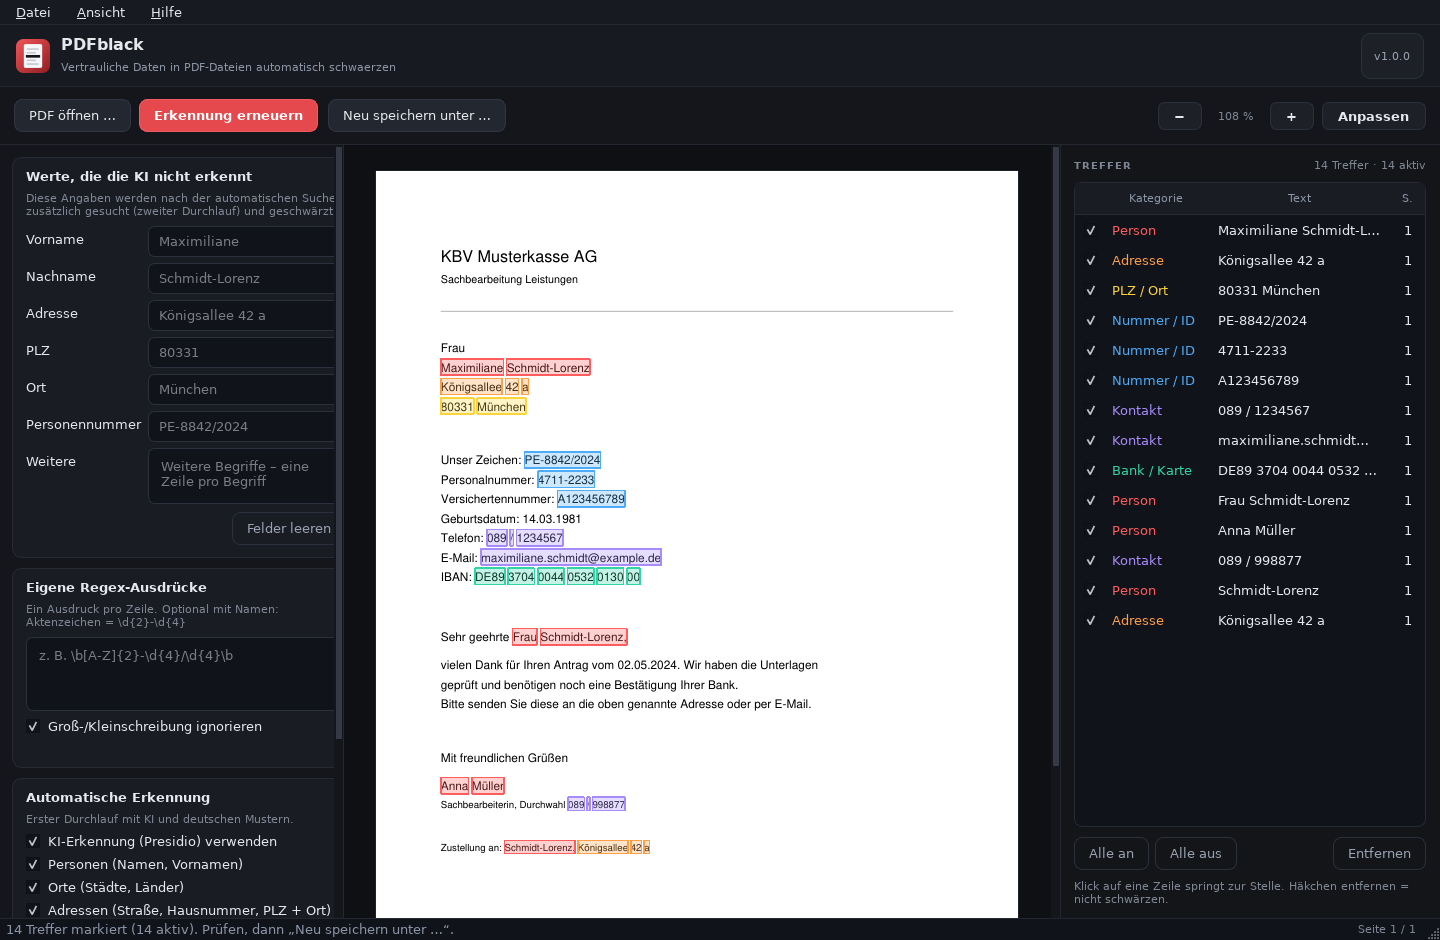
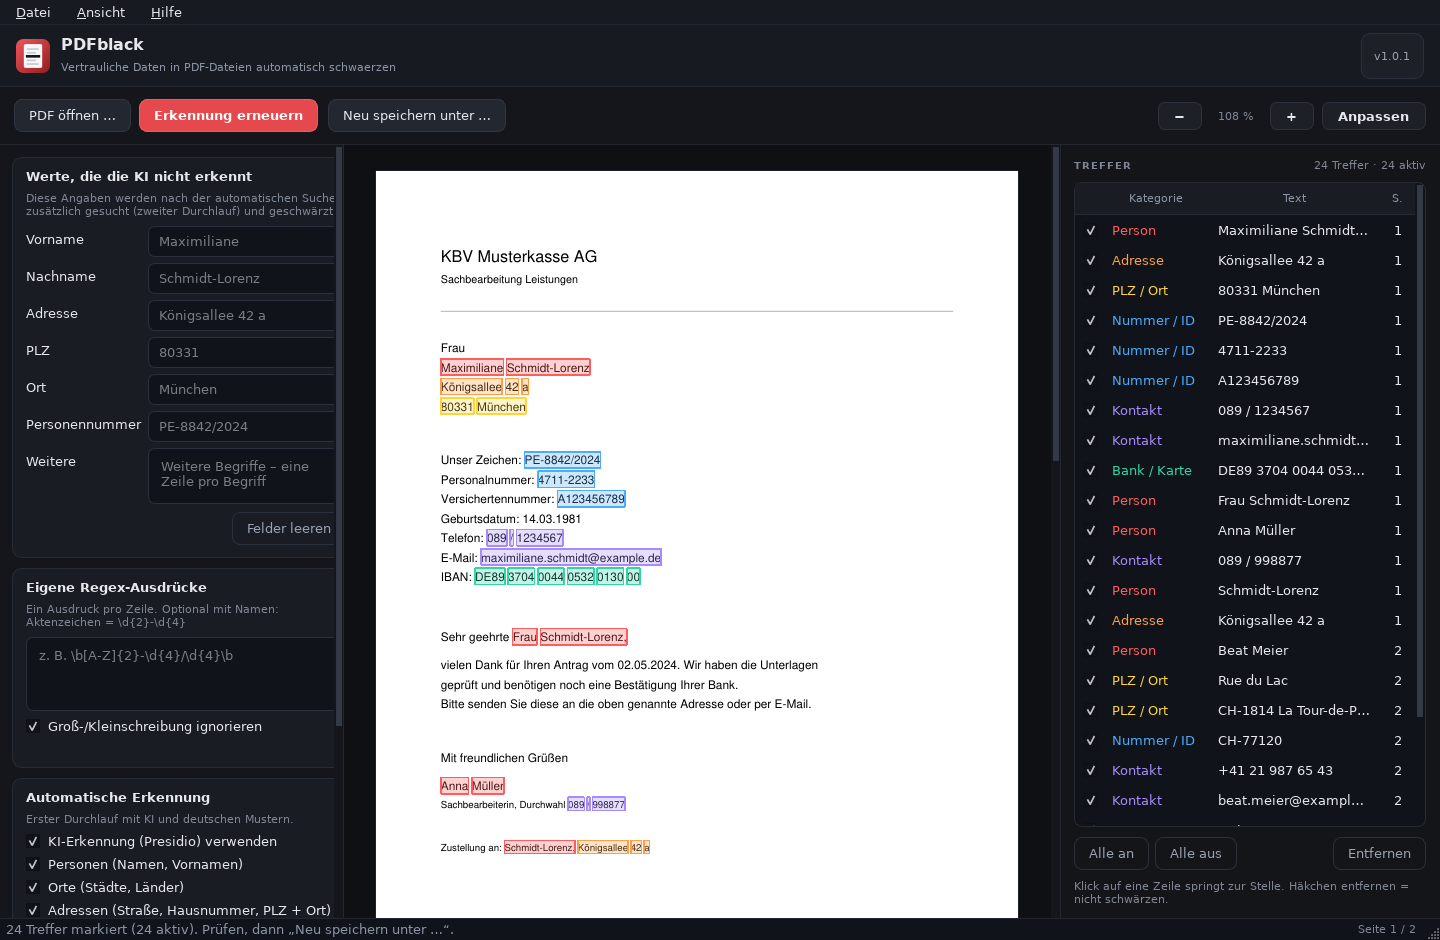
Version 1.0.1 mit Schweizer PLZ, Auto-Update und gemerkten Einstellungen
Die Release-Notizen beschreiben die neue Fassung samt Installationswegen und
dem einmaligen Handgriff fuer alle, die noch 1.0.0 installiert haben. Der
Workflow baut und veroeffentlicht kuenftig v1.0.1 und laedt beide Installer.

Generated with Codebuff 🤖

diff --git a/src/pdfblack/__init__.py b/src/pdfblack/__init__.py
@@ -3,5 +3,5 @@
 __all__ = ["APP_NAME", "APP_TAGLINE", "APP_VERSION"]
 
 APP_NAME = "PDFblack"
-APP_VERSION = "1.0.0"
+APP_VERSION = "1.0.1"
 APP_TAGLINE = "Vertrauliche Daten in PDF-Dateien automatisch schwaerzen"

diff --git a/docs/release-notes.md b/docs/release-notes.md
@@ -1,10 +1,18 @@
-## PDFblack 1.0.0
+## PDFblack 1.0.1
 
 PDF-Dateien automatisch schwärzen – mit farbiger Vorschau vor dem Speichern.
 
+### Neu in 1.0.1
+
+- **Schweizer Postleitzahlen:** vierstellige PLZ mit Präfix (`CH-8045`, `CH 3000 Bern`) und mit nachgestelltem Ort (`8045 Zürich`, `CH-1814 La Tour-de-Peilz`). Beträge, Mengen und Zeiteinheiten gelten nicht als Ort – „1500 Franken" bleibt stehen. Eigener Schalter in der automatischen Erkennung.
+- **Automatische Updates:** PDFblack prüft beim Start im Hintergrund, ob eine neue Version bereitsteht, lädt sie und spielt sie ohne Assistent ein. Von Hand über **Hilfe → Nach Updates suchen …**.
+- **Gemerkte Einstellungen:** die Häkchen der automatischen Erkennung und die Empfindlichkeit gelten beim nächsten Start weiter.
+- **Telefonnummern** mit beliebiger Ländervorwahl (`+41 …`), nicht mehr nur `+49`.
+- Anrede- und Grußfloskeln („Herrn", „Freundliche Grüsse") werden nicht mehr als Namen markiert.
+
 ### Funktionen
 
-- **Erkennung:** Personen und Vornamen (Microsoft Presidio + spaCy, deutsches Modell), Straße + Hausnummer, PLZ + Ort, Personal-, Ausweis-, Versicherten-, Kunden-, Vertrags- und Aktenzeichen, E-Mail, Telefon, IBAN, Datum
+- **Erkennung:** Personen und Vornamen (Microsoft Presidio + spaCy, deutsches Modell), Straße + Hausnummer, PLZ + Ort (Deutschland und Schweiz), Personal-, Ausweis-, Versicherten-, Kunden-, Vertrags- und Aktenzeichen, E-Mail, Telefon, IBAN, Datum
 - **Zweiter Durchlauf:** eigene Werte für Vorname, Nachname, Adresse, PLZ, Ort, Personennummer und weitere Begriffe
 - **Eigene Regexe:** beliebig viele Muster, ungültige Ausdrücke werden vor dem Start gemeldet
 - **Namen überall:** ein erkannter Name wird auch innerhalb von Adresszeilen, Briefköpfen und Fußzeilen geschwärzt
@@ -15,24 +23,28 @@ PDF-Dateien automatisch schwärzen – mit farbiger Vorschau vor dem Speichern.
 
 ### Installation
 
-**Windows:** `PDFblack-1.0.0-Setup.exe` herunterladen und ausführen (Installer, kein Administrator- oder Python-Zubehör nötig).
+**Windows:** `PDFblack-1.0.1-Setup.exe` herunterladen und ausführen (Installer, kein Administrator- oder Python-Zubehör nötig).
 
 **Linux (Debian/Ubuntu):**
 
 ```bash
-sudo apt install ./PDFblack_1.0.0_amd64.deb
+sudo apt install ./PDFblack_1.0.1_amd64.deb
 pdfblack
 ```
 
-Alternativ das Archiv `PDFblack-1.0.0-linux-x86_64.tar.gz` entpacken und `PDFblack/PDFblack` starten.
+Alternativ das Archiv `PDFblack-1.0.1-linux-x86_64.tar.gz` entpacken und `PDFblack/PDFblack` starten. Dieses Archiv kann sich ab 1.0.1 selbst aktualisieren.
 
 **macOS:** aus dem Quellcode mit `bash packaging/build_macos.sh` bauen.
 
 ### Geprüft
 
-- 8 automatisierte Tests für Erkennung, manuelle Werte, Regex, Überlappungen und Schwärzung
+- 18 automatisierte Tests für Erkennung, Schweizer PLZ, manuelle Werte, Regex, Überlappungen, Schwärzung, Update-Abfrage und gemerkte Einstellungen
 - Selbsttest der gepackten Anwendung (`PDFblack --self-test`) in beiden Builds
-- Speichern-Weg der Oberfläche: 29 Stellen geschwärzt, anschließend kein Resttext der geschwärzten Werte im PDF
+- Speicherprobe mit Schweizer Adresse: kein Resttext der geschwärzten Werte im Ergebnis-PDF
+
+### Hinweis zum Update aus 1.0.0
+
+Die Fassung 1.0.0 enthielt den Updater noch nicht. Wer 1.0.0 installiert hat, installiert 1.0.1 einmal von Hand; ab 1.0.1 läuft die Aktualisierung selbsttätig.
 
 ### Lizenzen
 

diff --git a/README.md b/README.md
@@ -1,4 +1,4 @@
-# PDFblack 1.0.0
+# PDFblack 1.0.1
 
 Vertrauliche Daten in PDF-Dateien automatisch schwärzen – mit Vorschau, Prüfung
 und echter Entfernung des Textes.
@@ -128,15 +128,15 @@ Alle Varianten setzen eine virtuelle Umgebung mit den Abhängigkeiten voraus.
 
 ```bash
 bash packaging/build_linux.sh
-# Ergebnis: dist/PDFblack_1.0.0_amd64.deb, dist/PDFblack-1.0.0-linux-x86_64.tar.gz
-sudo apt install ./dist/PDFblack_1.0.0_amd64.deb
+# Ergebnis: dist/PDFblack_1.0.1_amd64.deb, dist/PDFblack-1.0.1-linux-x86_64.tar.gz
+sudo apt install ./dist/PDFblack_1.0.1_amd64.deb
 ```
 
 **Windows (Setup-EXE)**
 
 ```powershell
 powershell -ExecutionPolicy Bypass -File packaging\build_windows.ps1
-# Ergebnis: dist\PDFblack-1.0.0-Setup.exe  (benötigt Inno Setup 6)
+# Ergebnis: dist\PDFblack-1.0.1-Setup.exe  (benötigt Inno Setup 6)
 ```
 
 **macOS (.app + ZIP)**
